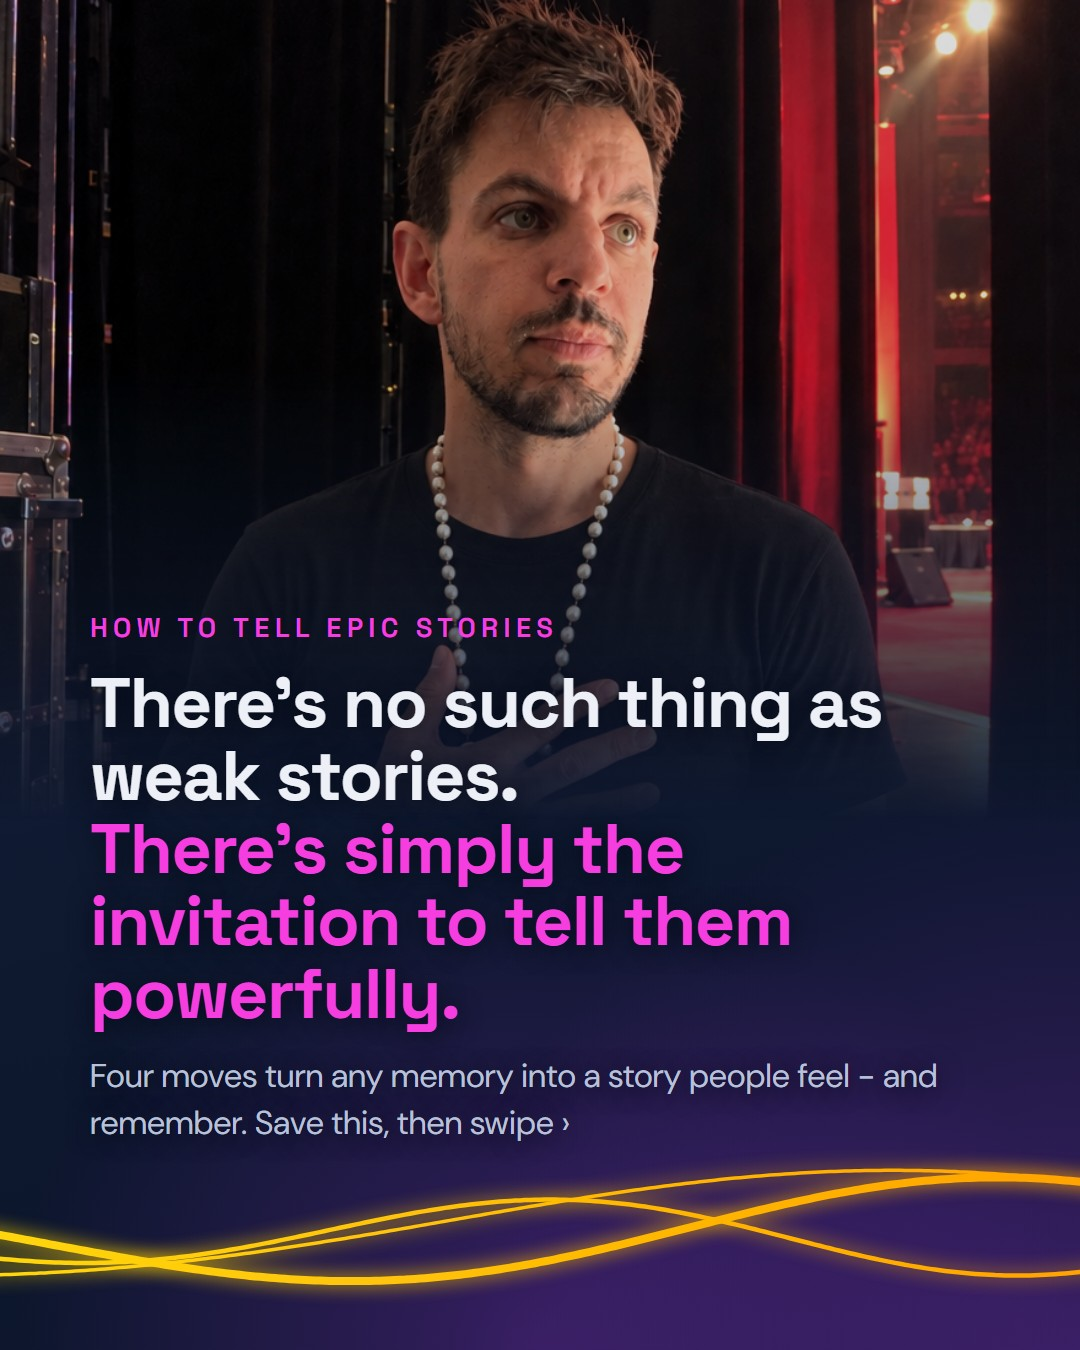
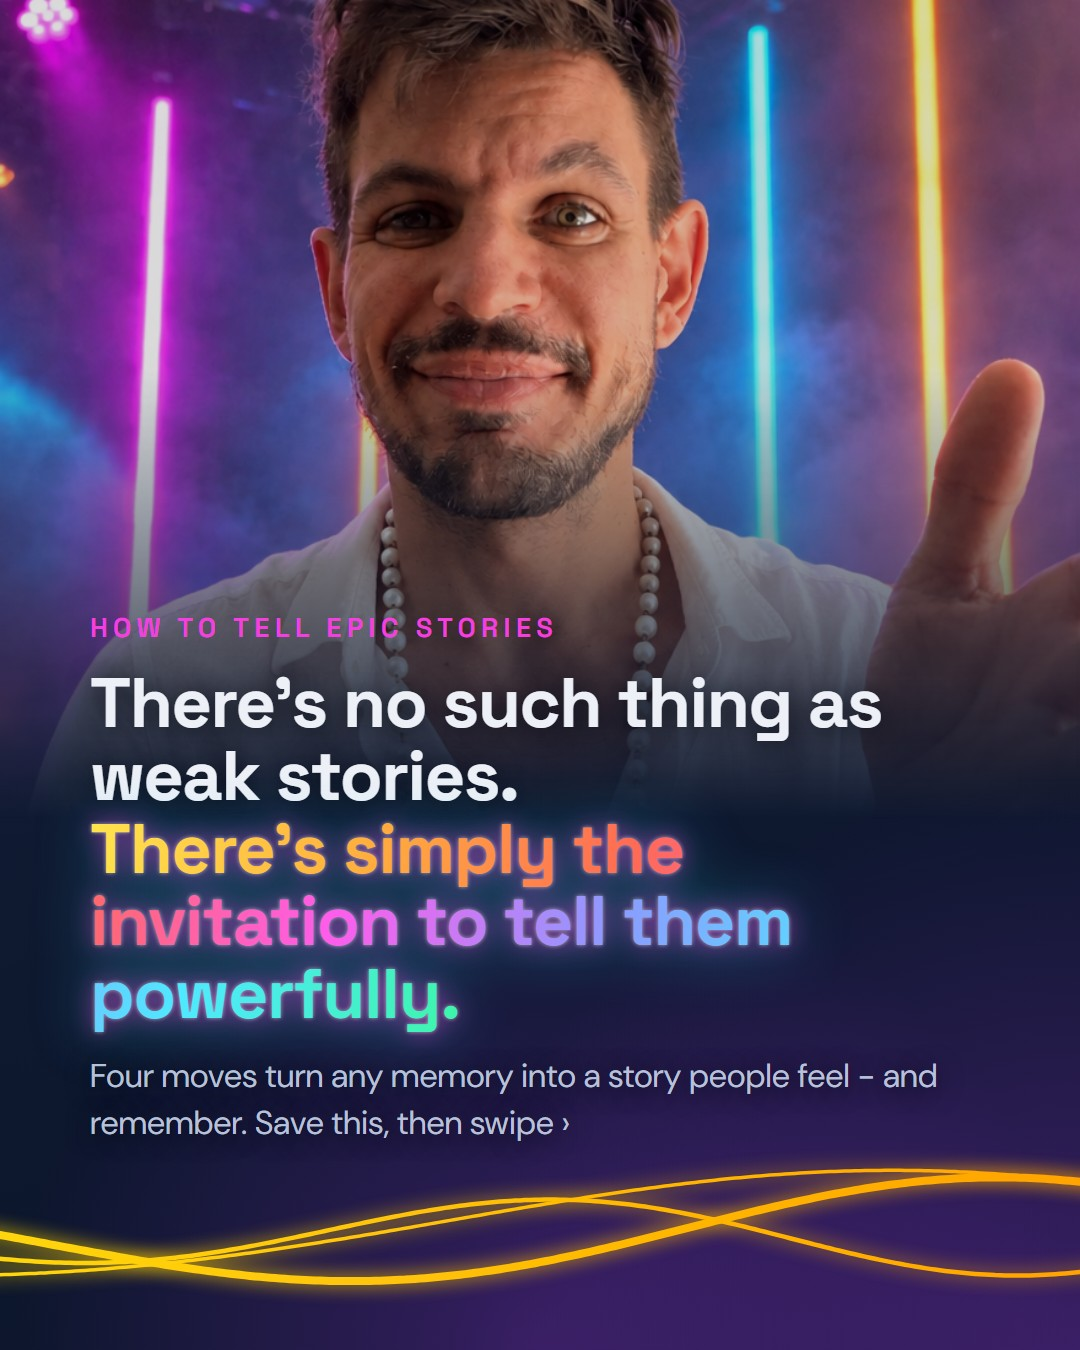
Phone deck viewer: Post 4 - neon cover line, happier cover photo, and a black version to compare

diff --git a/public/d-BlBAiR0ZRDrG/index.html b/public/d-BlBAiR0ZRDrG/index.html
@@ -2,4 +2,4 @@
 header{position:sticky;top:0;z-index:2;display:flex;align-items:center;justify-content:space-between;gap:12px;padding:12px 16px;padding-top:max(12px,env(safe-area-inset-top));background:rgba(7,11,24,.92);backdrop-filter:blur(8px);border-bottom:1px solid #1d2644}
 h1{font-size:16px;margin:0;font-weight:600}a{color:#22D9F5}main{max-width:1200px;margin:0 auto;padding:12px 12px 48px;display:flex;flex-direction:column;gap:12px}
 figure{margin:0}img{display:block;width:100%;height:auto;border-radius:8px;background:#0B1224}figcaption{font-size:12px;color:#8790AB;padding:4px 2px 0}
-.list{max-width:560px;margin:0 auto;padding:24px 16px;display:flex;flex-direction:column;gap:14px}.card{display:block;padding:18px;border:1px solid #1d2644;border-radius:14px;background:#0B1224;text-decoration:none;color:#EEF0F7}.card img{margin-bottom:10px}.card small{color:#8790AB}</style></head><body><div class="list"><h1 style="font-size:22px">Speak Better decks</h1><a class="card" href="post4.html"><img src="post4/01.jpg?v=2" alt=""><b>Instagram · Post 4 - How to Tell Epic Stories</b><br><small>9-slide carousel · tap to swipe</small></a><a class="card" href="perfect.html"><img src="perfect/01.jpg" alt=""><b>Webinar · Perfect Webinar (new)</b><br><small>63 slides · tap to view · <span>PDF inside</span></small></a><a class="card" href="webinar.html"><img src="webinar/01.jpg" alt=""><b>Webinar · The 5 Secrets</b><br><small>58 slides · tap to view · <span>PDF inside</span></small></a><a class="card" href="investor.html"><img src="investor/01.jpg" alt=""><b>Investor Deck</b><br><small>21 slides · tap to view · <span>PDF inside</span></small></a><small style="color:#8790AB">Private link - please don't share.</small></div></body></html>
+.list{max-width:560px;margin:0 auto;padding:24px 16px;display:flex;flex-direction:column;gap:14px}.card{display:block;padding:18px;border:1px solid #1d2644;border-radius:14px;background:#0B1224;text-decoration:none;color:#EEF0F7}.card img{margin-bottom:10px}.card small{color:#8790AB}</style></head><body><div class="list"><h1 style="font-size:22px">Speak Better decks</h1><a class="card" href="post4.html"><img src="post4/01.jpg?v=3" alt=""><b>Instagram · Post 4 - How to Tell Epic Stories</b><br><small>9-slide carousel · tap to swipe</small></a><a class="card" href="perfect.html"><img src="perfect/01.jpg" alt=""><b>Webinar · Perfect Webinar (new)</b><br><small>63 slides · tap to view · <span>PDF inside</span></small></a><a class="card" href="webinar.html"><img src="webinar/01.jpg" alt=""><b>Webinar · The 5 Secrets</b><br><small>58 slides · tap to view · <span>PDF inside</span></small></a><a class="card" href="investor.html"><img src="investor/01.jpg" alt=""><b>Investor Deck</b><br><small>21 slides · tap to view · <span>PDF inside</span></small></a><small style="color:#8790AB">Private link - please don't share.</small></div></body></html>

diff --git a/public/d-BlBAiR0ZRDrG/post4.html b/public/d-BlBAiR0ZRDrG/post4.html
@@ -4,8 +4,8 @@ main{max-width:540px;margin:0 auto;padding:16px 16px 48px}h1{font-size:18px;marg
 .car img{flex:0 0 100%;width:100%;aspect-ratio:4/5;scroll-snap-align:start;display:block}
 .dots{display:flex;justify-content:center;gap:6px;margin:10px 0 18px}.dots i{width:6px;height:6px;border-radius:50%;background:#36406a}.dots i.on{background:#22D9F5}
 .pano{overflow-x:auto;border-radius:8px}.pano img{height:260px;display:block}h2{font-size:14px;margin:22px 0 8px;color:#B9C0D8}</style></head><body><main>
-<a href="index.html">‹ All</a><h1>Post 4 · How to Tell Epic Stories</h1><small>9 slides · swipe like Instagram</small>
-<div class="car" id="c"><img src="post4/01.jpg?v=2" alt="Slide 1"><img src="post4/02.jpg?v=2" alt="Slide 2"><img src="post4/03.jpg?v=2" alt="Slide 3"><img src="post4/04.jpg?v=2" alt="Slide 4"><img src="post4/05.jpg?v=2" alt="Slide 5"><img src="post4/06.jpg?v=2" alt="Slide 6"><img src="post4/07.jpg?v=2" alt="Slide 7"><img src="post4/08.jpg?v=2" alt="Slide 8"><img src="post4/09.jpg?v=2" alt="Slide 9"></div><div class="dots" id="d"><i></i><i></i><i></i><i></i><i></i><i></i><i></i><i></i><i></i></div>
-<h2>The whole panorama (scroll sideways)</h2><div class="pano"><img src="post4/panorama.jpg?v=2" alt="Full panorama"></div>
+<a href="index.html">‹ All</a><h1>Post 4 · How to Tell Epic Stories</h1><small>9 slides · swipe like Instagram</small><small style="display:block;margin:6px 0">Version: <a href="post4.html">Glassy gradient</a> · <a href="post4-black.html">Black</a></small>
+<div class="car" id="c"><img src="post4/01.jpg?v=3" alt="Slide 1"><img src="post4/02.jpg?v=3" alt="Slide 2"><img src="post4/03.jpg?v=3" alt="Slide 3"><img src="post4/04.jpg?v=3" alt="Slide 4"><img src="post4/05.jpg?v=3" alt="Slide 5"><img src="post4/06.jpg?v=3" alt="Slide 6"><img src="post4/07.jpg?v=3" alt="Slide 7"><img src="post4/08.jpg?v=3" alt="Slide 8"><img src="post4/09.jpg?v=3" alt="Slide 9"></div><div class="dots" id="d"><i></i><i></i><i></i><i></i><i></i><i></i><i></i><i></i><i></i></div>
+<h2>The whole panorama (scroll sideways)</h2><div class="pano"><img src="post4/panorama.jpg?v=3" alt="Full panorama"></div>
 <small style="display:block;margin-top:18px">Private link - please don't share.</small></main>
 <script>const c=document.getElementById("c"),d=[...document.querySelectorAll("#d i")];const u=()=>{const i=Math.round(c.scrollLeft/c.clientWidth);d.forEach((x,k)=>x.classList.toggle("on",k===i))};c.addEventListener("scroll",u,{passive:true});u();</script></body></html>

diff --git a/public/d-BlBAiR0ZRDrG/post4-black.html b/public/d-BlBAiR0ZRDrG/post4-black.html
@@ -1,0 +1,11 @@
+<!doctype html><html lang="en"><head><meta charset="utf-8"><meta name="viewport" content="width=device-width,initial-scale=1,viewport-fit=cover"><meta name="robots" content="noindex,nofollow"><title>Post 4 (black)</title><style>:root{color-scheme:dark}*{box-sizing:border-box}body{margin:0;background:#070b18;color:#EEF0F7;font:16px/1.5 system-ui,-apple-system,sans-serif}
+main{max-width:540px;margin:0 auto;padding:16px 16px 48px}h1{font-size:18px;margin:4px 0 2px}small{color:#8790AB}a{color:#22D9F5}
+.car{display:flex;overflow-x:auto;scroll-snap-type:x mandatory;border-radius:10px;margin-top:12px;scrollbar-width:none}.car::-webkit-scrollbar{display:none}
+.car img{flex:0 0 100%;width:100%;aspect-ratio:4/5;scroll-snap-align:start;display:block}
+.dots{display:flex;justify-content:center;gap:6px;margin:10px 0 18px}.dots i{width:6px;height:6px;border-radius:50%;background:#36406a}.dots i.on{background:#22D9F5}
+.pano{overflow-x:auto;border-radius:8px}.pano img{height:260px;display:block}h2{font-size:14px;margin:22px 0 8px;color:#B9C0D8}</style></head><body><main>
+<a href="index.html">‹ All</a><h1>Post 4 · How to Tell Epic Stories - black</h1><small>9 slides · swipe like Instagram</small><small style="display:block;margin:6px 0">Version: <a href="post4.html">Glassy gradient</a> · <a href="post4-black.html">Black</a></small>
+<div class="car" id="c"><img src="post4-black/01.jpg?v=3" alt="Slide 1"><img src="post4-black/02.jpg?v=3" alt="Slide 2"><img src="post4-black/03.jpg?v=3" alt="Slide 3"><img src="post4-black/04.jpg?v=3" alt="Slide 4"><img src="post4-black/05.jpg?v=3" alt="Slide 5"><img src="post4-black/06.jpg?v=3" alt="Slide 6"><img src="post4-black/07.jpg?v=3" alt="Slide 7"><img src="post4-black/08.jpg?v=3" alt="Slide 8"><img src="post4-black/09.jpg?v=3" alt="Slide 9"></div><div class="dots" id="d"><i></i><i></i><i></i><i></i><i></i><i></i><i></i><i></i><i></i></div>
+<h2>The whole panorama (scroll sideways)</h2><div class="pano"><img src="post4-black/panorama.jpg?v=3" alt="Full panorama"></div>
+<small style="display:block;margin-top:18px">Private link - please don't share.</small></main>
+<script>const c=document.getElementById("c"),d=[...document.querySelectorAll("#d i")];const u=()=>{const i=Math.round(c.scrollLeft/c.clientWidth);d.forEach((x,k)=>x.classList.toggle("on",k===i))};c.addEventListener("scroll",u,{passive:true});u();</script></body></html>
